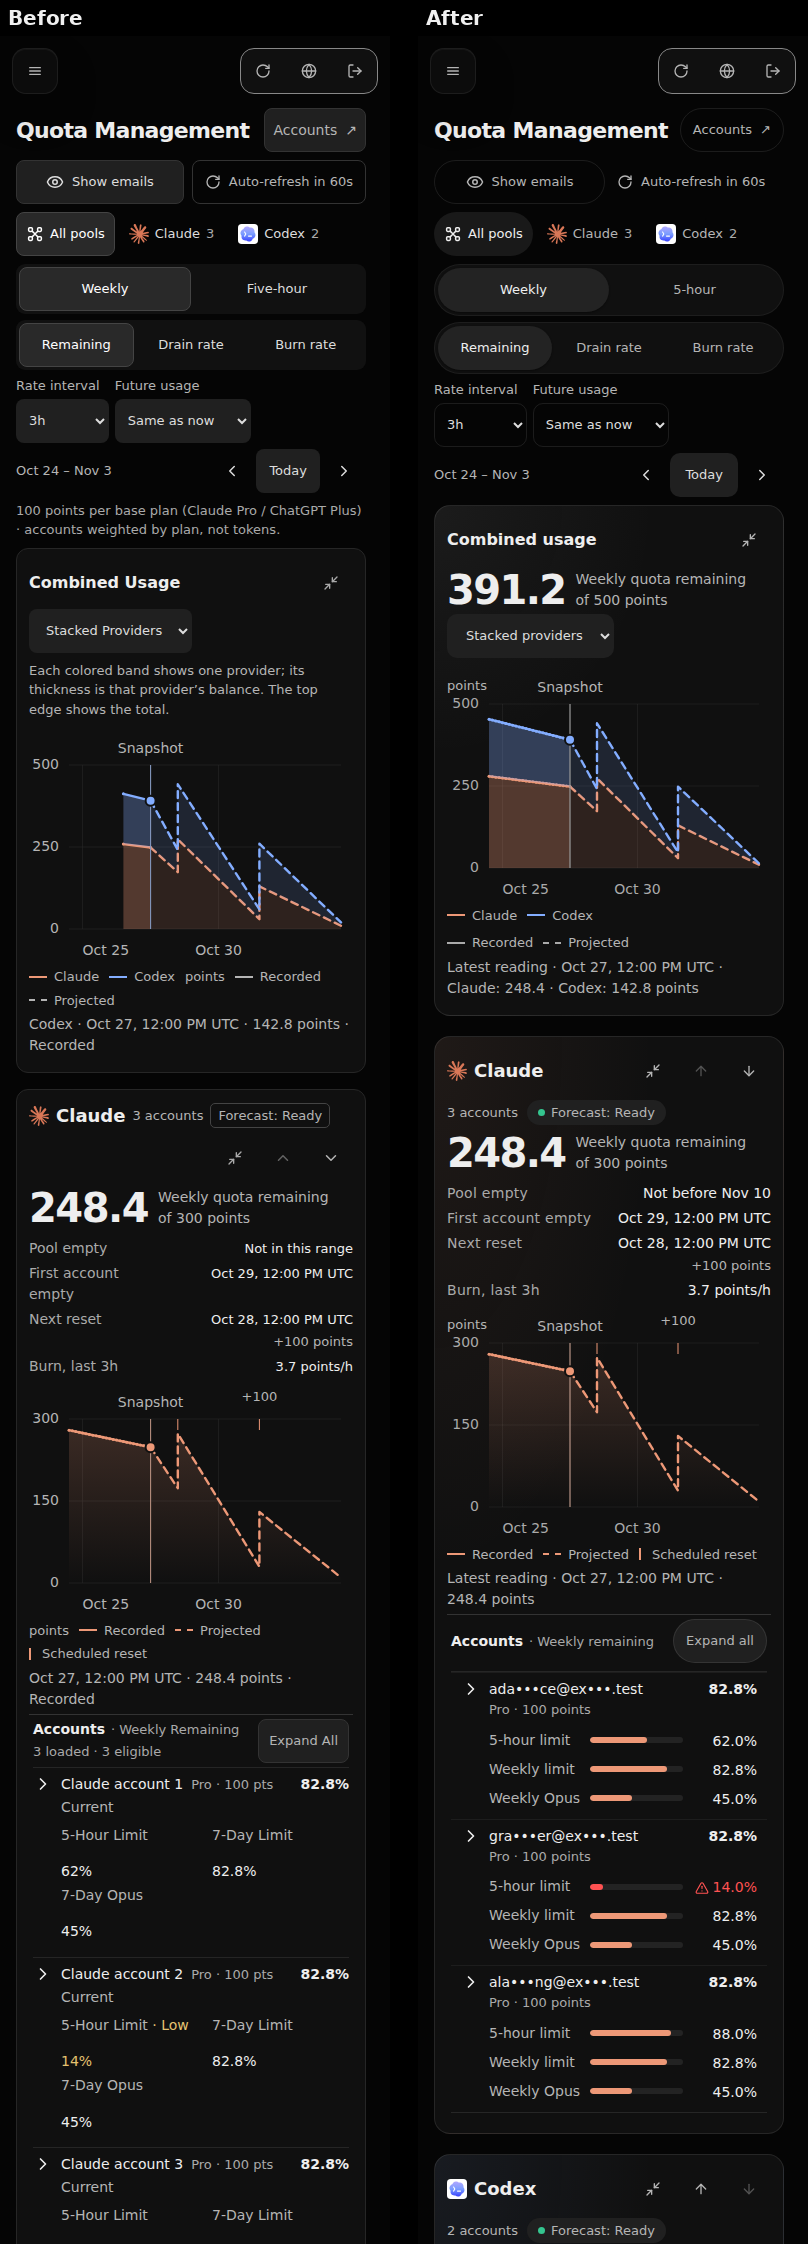
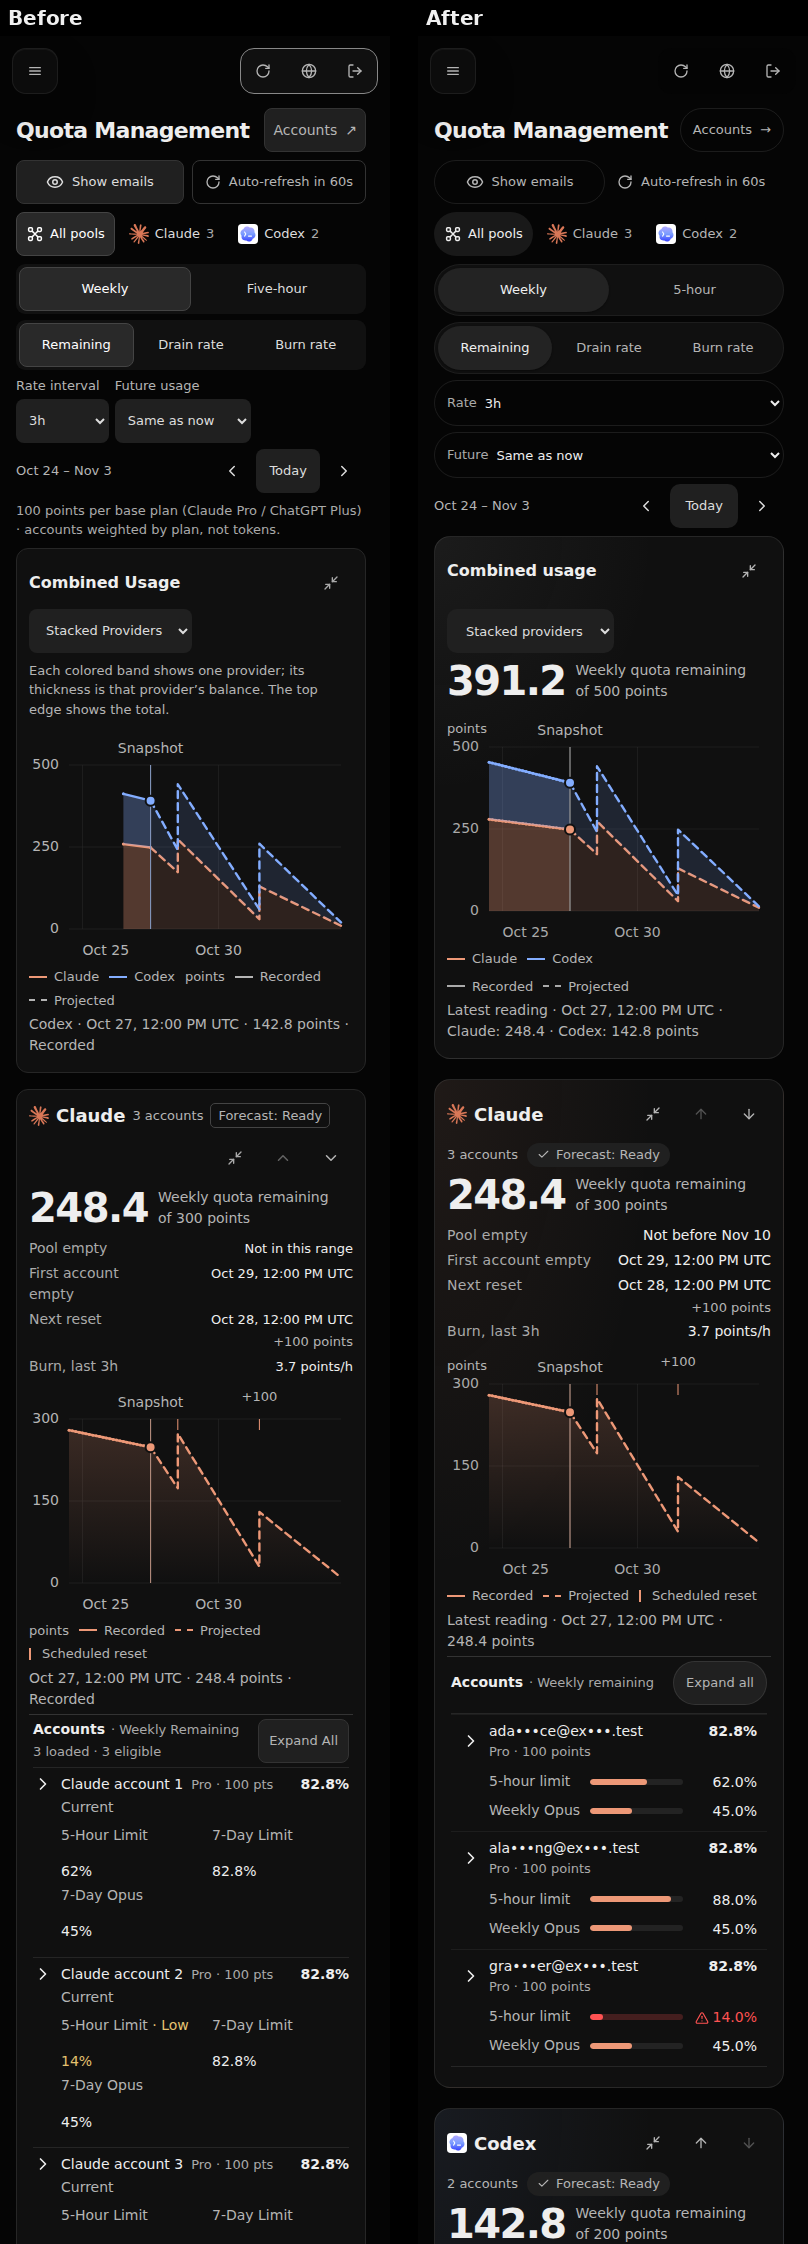
docs(quota): rounds 28–29 and refreshed screenshots

diff --git a/docs/evidence/quota-hillclimb/rounds.md b/docs/evidence/quota-hillclimb/rounds.md
@@ -36,8 +36,20 @@ Rounds 0–10 showed reviewers the previous round's medians; from round 11 they 
 | 25 | 4 | 0/90 | 90 | 8.39 | 8.0 | 35 | 0 |
 | 26 | 4 | 0/90 | 90 | 8.45 | 8.1 | 35 | 0 |
 | 27 | 4 | 0/90 | 90 | 8.46 | 8.1 | 35 | 0 |
+| 28 | 4 | 0/90 | 85 | 8.41 | 7.8 | 37 | 0 |
+| 29 | 4 | 0/90 | 90 | 8.49 | 8.1 | 37 | 0 |
 
 Rounds 14–15 added the header refresh busy state, roster paging (25 rows, then "Show all"), and a marked "counts toward total" limit column in place of the duplicate remaining column. Rounds 16–18 fitted the 5-hour and rate charts to their data, named Claude's 7-day window Weekly, and moved the disabled control's reason under it. Rounds 19–21 named the accounts behind a partial or stale total with a "Refresh now" action, kept the metric named beside an unavailable total, dated "Pool empty" against the server's forecast horizon in every view, moved notices across the card, and made the low filter a neutral toggle. Round 20 was the first with every cell at 8.0 or more; Round 22 put a "Refresh now" on every notice, which three reviewers flagged as three buttons for one action; round 23 kept the one on the combined card, which also names the accounts, centred the row chevrons, and dimmed stale values to #888 while low values stay red. Round 23 has the best mean so far. Round 24 demoted the rate-view "Remaining-quota forecast" heading to a plain label; all four reviewers pinned a −0.7 grouping drop on it, and round 25 restored it (+0.5). Rounds 24–25 also made the refresh error say the page retries on its own, matched the loading skeleton to the loaded layout, and dropped the repeated weekly line from collapsed phone rows. Rounds 26–27 moved the combined card's view select into its title row, put every card's notice under its headline, aligned an unavailable caption to its word, tinted low-limit tracks red, split the phone selects evenly, and named the sort key. Open at round 27: the loading skeleton still places the combined select under the headline (loading consistency −0.5), and on phones the select now sits between the title and the number. Round 16 had the run's only passing cell (empty state, colour, 9.0). From round 16 on, a lens's mean moved up to ±0.3 between rounds on screens that did not change, so a 9.0 median is within reviewer noise of most cells.
+
+Rounds 28–29 implemented the council decisions in `docs/design/quota-ui/14-council-decisions.md`:
+- one chip shape per forecast state, with a neutral Ready;
+- settings named inside their selects, so the toolbar has one top edge;
+- no border box around the shell icons;
+- Name A–Z as the default sort;
+- card notices that count affected accounts and show them in the list;
+- the view kept in the address.
+
+Reviewers also gave a pairwise verdict per screen from round 28 on. Round 28 cut the phone Future value to "Same as n…" (all four reviewers flagged it) and lost the amber on degraded chips. Round 29 fixed both, and three of the four reviewers rated 7–8 of the 10 screens better. The harness gained the `deep-link` and `partial-affected-narrow` cases.
 
 Measured checks every round: text contrast 4.5:1 (3:1 large), targets 24px (44px touch), no page overflow or clipped text, meaning-colour thresholds, nesting depth below 4 surfaces, and no hidden reason for a disabled control.
 
